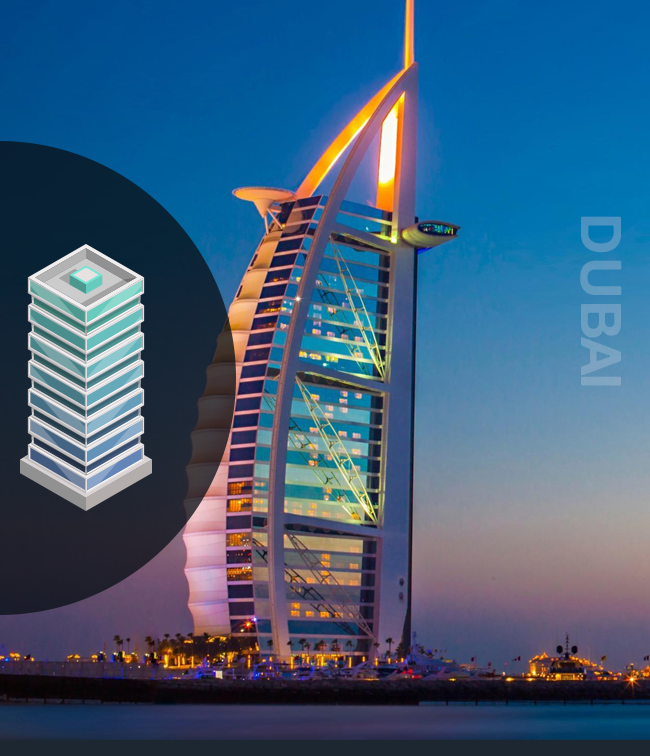
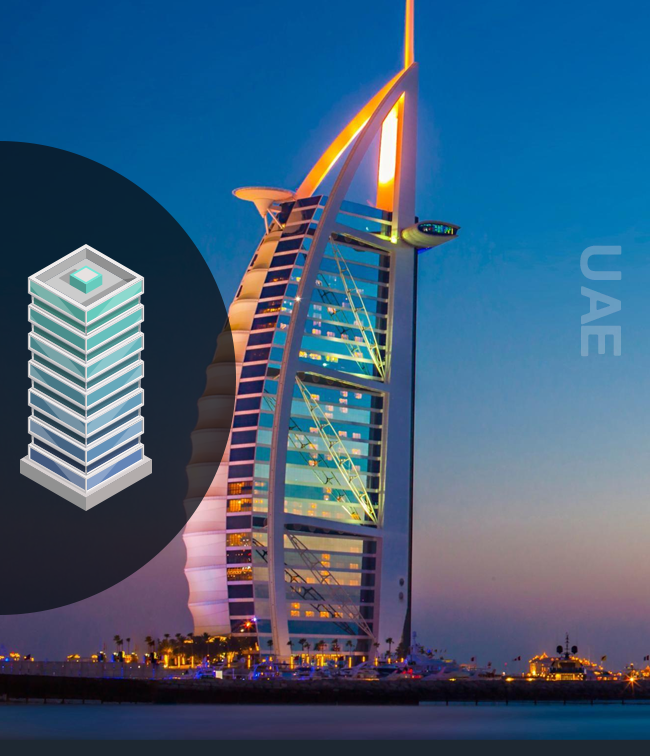
changes done

Changed region(s): [[0.8923, 0.2738, 0.9538, 0.5172]]

diff --git a/index.html b/index.html
@@ -2037,7 +2037,7 @@
                                                                                                 <div class="col" id="homesec5-mview">
                                                                                                     <div><img src="wp-content/images/Home/05/01.png" alt="">
                                                                                                     </div>
-                                                                                                    <h5>DUBAI</h5>
+                                                                                                    <h5>UAE</h5>
                                                                                                 </div>
                                                                                             </div>
                                                                                             <div class="row">
@@ -2054,7 +2054,7 @@
                                                                                                 <div class="col" id="homesec5-mview-1">
                                                                                                     <div><img src="wp-content/images/Home/05/01.png" alt="">
                                                                                                     </div>
-                                                                                                    <h5>DUBAI</h5>
+                                                                                                    <h5>UAE</h5>
                                                                                                 </div>
                                                                                             </div>
                                                                                             <!-- <div class="elementor-container elementor-column-gap-default">
@@ -3331,7 +3331,7 @@
                                                                                                                         <h2 class="neighborhoods-one__accordion-header accordion-header">
                                                                                                                             <span class="neighborhoods-one__accordion-button collapsed" data-item="item-6" data-bs-toggle="collapse" data-bs-target="#collapse-1946501007-6"><i
                                                                                                                                     class="fa-solid fa-caret-up"
-                                                                                                                                    style="color: #26bcef;"></i>Dubai</span>
+                                                                                                                                    style="color: #26bcef;"></i>UAE</span>
                                                                                                                         </h2>
                                                                                                                         <div id="collapse-1946501007-6" class="accordion-collapse collapse " data-bs-parent="#accordion-1946501007">
                                                                                                                             <div class="neighborhoods-one__accordion-body">
@@ -3971,7 +3971,7 @@
                                                                                                                 </span>
                                                                                                             </h3>
                                                                                                             <p class="elementor-icon-box-description">
-                                                                                                                Invest in sustainable projects across Bulgaria, Canada, UK, USA, Romania, Dubai.
+                                                                                                                Invest in sustainable projects across Bulgaria, Canada, UK, USA, Romania, UAE.
                                                                                                             </p>
                                                                                                         </div>
                                                                                                     </div>
@@ -4111,9 +4111,9 @@
                                                                                         </p>
                                                                                     </div>
                                                                                     <div class="area__description">
-                                                                                        <p>At Prospera, we prioritize legal compliance and safety in our real-time projects across Bulgaria, Canada, the UK, USA, Romania, and Dubai. Our stringent adherence
-                                                                                            to regulations ensures transparency and security in every transaction. By integrating cutting-edge blockchain technology, we guarantee real-time project updates
-                                                                                            and secure operations, setting new benchmarks in global investment safety and regulatory standards.
+                                                                                        <p>At Prospera, we prioritize legal compliance and safety in our real-time projects across Bulgaria, Canada, the UK, USA, Romania, and UAE. Our stringent adherence to
+                                                                                            regulations ensures transparency and security in every transaction. By integrating cutting-edge blockchain technology, we guarantee real-time project updates and
+                                                                                            secure operations, setting new benchmarks in global investment safety and regulatory standards.
                                                                                         </p>
                                                                                     </div>
                                                                                 </div>
@@ -4330,7 +4330,7 @@
                                                                                                                             </div>
                                                                                                                             <div class="area__description">
                                                                                                                                 <p>At Prospera, we prioritize legal compliance and safety in our real-time projects across Bulgaria, Canada, the UK, USA, Romania,
-                                                                                                                                    and Dubai. Our stringent adherence to regulations ensures transparency and security in every transaction. By integrating
+                                                                                                                                    and UAE. Our stringent adherence to regulations ensures transparency and security in every transaction. By integrating
                                                                                                                                     cutting-edge blockchain technology, we guarantee real-time project updates and secure operations, setting new benchmarks
                                                                                                                                     in global investment safety and regulatory standards.
                                                                                                                                 </p>
@@ -4567,7 +4567,7 @@
                                                                                                         <div class="accordion-body">
                                                                                                             Prospera uses block chain technology and secure smart contracts to ensure the security and transparency of all transactions. Our platform is built with the latest security protocols to protect your investment. Additionally, all properties are carefully
                                                                                                             vetted and legally compliant, providing an extra layer of security for your investment. <br>                                                                                                            Also traditionally real estate brings its security measures to the ecosystem. Prospera has a global reach of real estate assets from Romania, Bulgaria,
-                                                                                                            UK, USA, Canada, Dubai and much more. This brings the ecosystem a boost and empowers its community members with seamless asset investments. <br>                                                                                                            Prospera ecosystem is being audited by the world’s no 1 company, where the KYC process of the project is also done by the same.
+                                                                                                            UK, USA, Canada, UAE and much more. This brings the ecosystem a boost and empowers its community members with seamless asset investments. <br>                                                                                                            Prospera ecosystem is being audited by the world’s no 1 company, where the KYC process of the project is also done by the same.
                                                                                                         </div>
                                                                                                     </div>
                                                                                                 </div>
